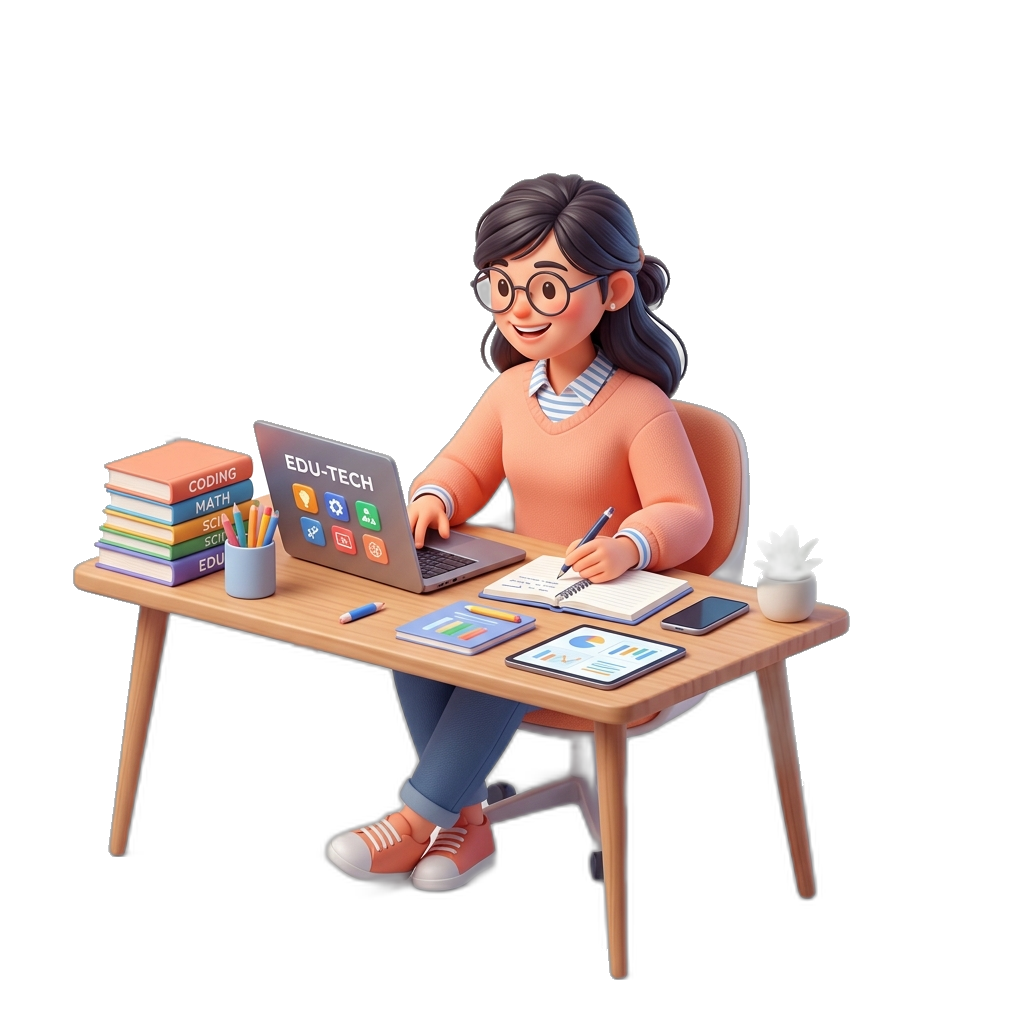
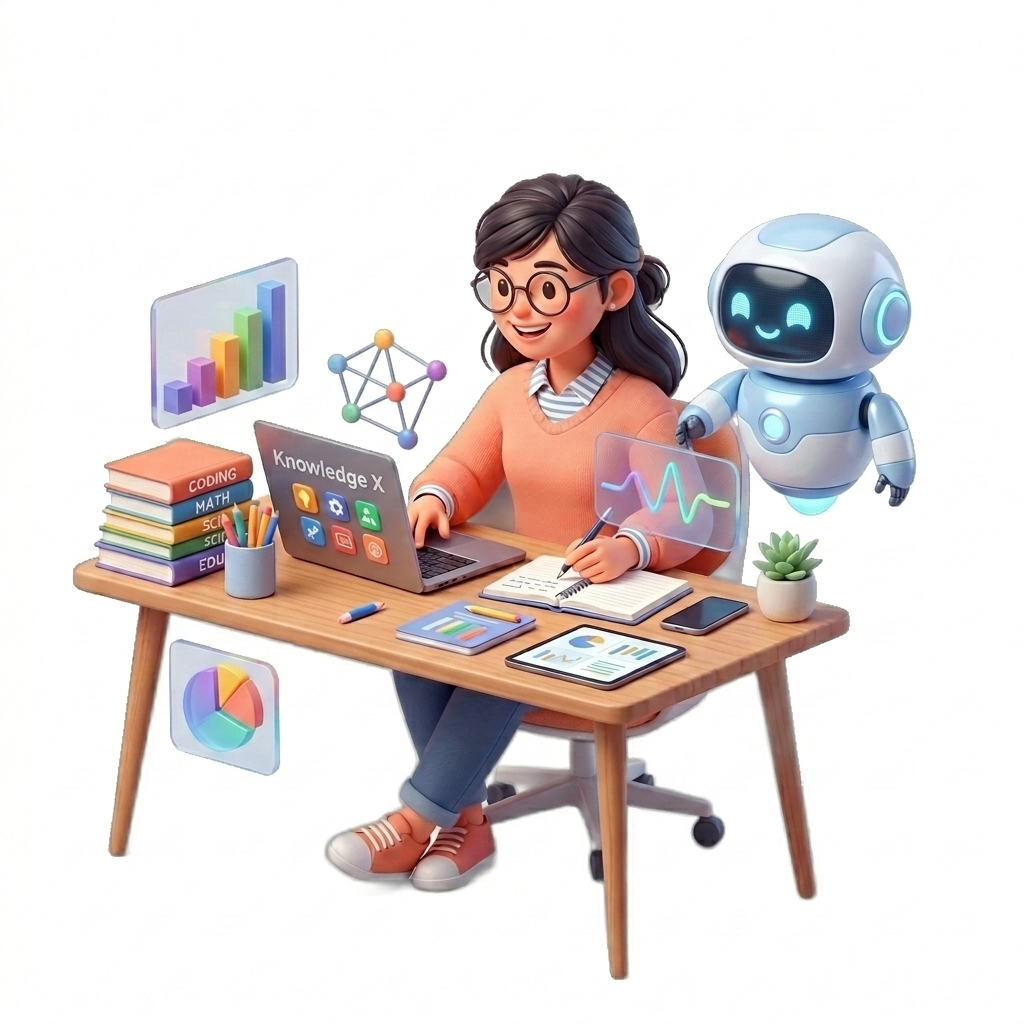
changed Student ai  image

diff --git a/frontend/src/pages/home.jsx b/frontend/src/pages/home.jsx
@@ -164,9 +164,10 @@ export default function Home() {
           initial={{ opacity: 0, scale: 0.9 }}
           animate={{ opacity: 1, scale: 1 }}
           transition={{ duration: 0.8, ease: "easeOut" }}
-          className="absolute right-[-10%] lg:right-[-5%] xl:right-[-12%] top-1/2 -translate-y-[45%] w-[350px] lg:w-[450px] pointer-events-none opacity-95 hidden md:block z-0"
+          className="absolute right-[-8%] lg:right-[-3%] xl:right-[-8%] top-1/2 -translate-y-[45%] w-[350px] lg:w-[450px] pointer-events-none opacity-95 hidden md:block mix-blend-multiply z-0"
+          style={{ WebkitMaskImage: 'radial-gradient(ellipse at center, black 45%, transparent 70%)', maskImage: 'radial-gradient(ellipse at center, black 45%, transparent 70%)' }}
         >
-          <img src={illustrationPath} alt="Student with AI" className="w-full h-auto object-contain drop-shadow-2xl" />
+          <img src={illustrationPath} alt="Student with AI" className="w-full h-auto object-contain drop-shadow-2xl" style={{ filter: 'contrast(1.05) brightness(1.02)' }} />
         </motion.div>
 
 

diff --git a/frontend/src/pages/register.jsx b/frontend/src/pages/register.jsx
@@ -156,9 +156,10 @@ export default function Register() {
           initial={{ opacity: 0, scale: 0.9 }}
           animate={{ opacity: 1, scale: 1 }}
           transition={{ duration: 0.8, ease: "easeOut" }}
-          className="absolute right-[-10%] lg:right-[-5%] xl:right-[-12%] top-1/2 -translate-y-[45%] w-[350px] lg:w-[450px] pointer-events-none opacity-95 hidden md:block z-0"
+          className="absolute right-[-8%] lg:right-[-3%] xl:right-[-8%] top-1/2 -translate-y-[45%] w-[350px] lg:w-[450px] pointer-events-none opacity-95 hidden md:block mix-blend-multiply z-0"
+          style={{ WebkitMaskImage: 'radial-gradient(ellipse at center, black 45%, transparent 70%)', maskImage: 'radial-gradient(ellipse at center, black 45%, transparent 70%)' }}
         >
-          <img src={illustrationPath} alt="Student with AI" className="w-full h-auto object-contain drop-shadow-2xl" />
+          <img src={illustrationPath} alt="Student with AI" className="w-full h-auto object-contain drop-shadow-2xl" style={{ filter: 'contrast(1.05) brightness(1.02)' }} />
         </motion.div>
 
       </div>